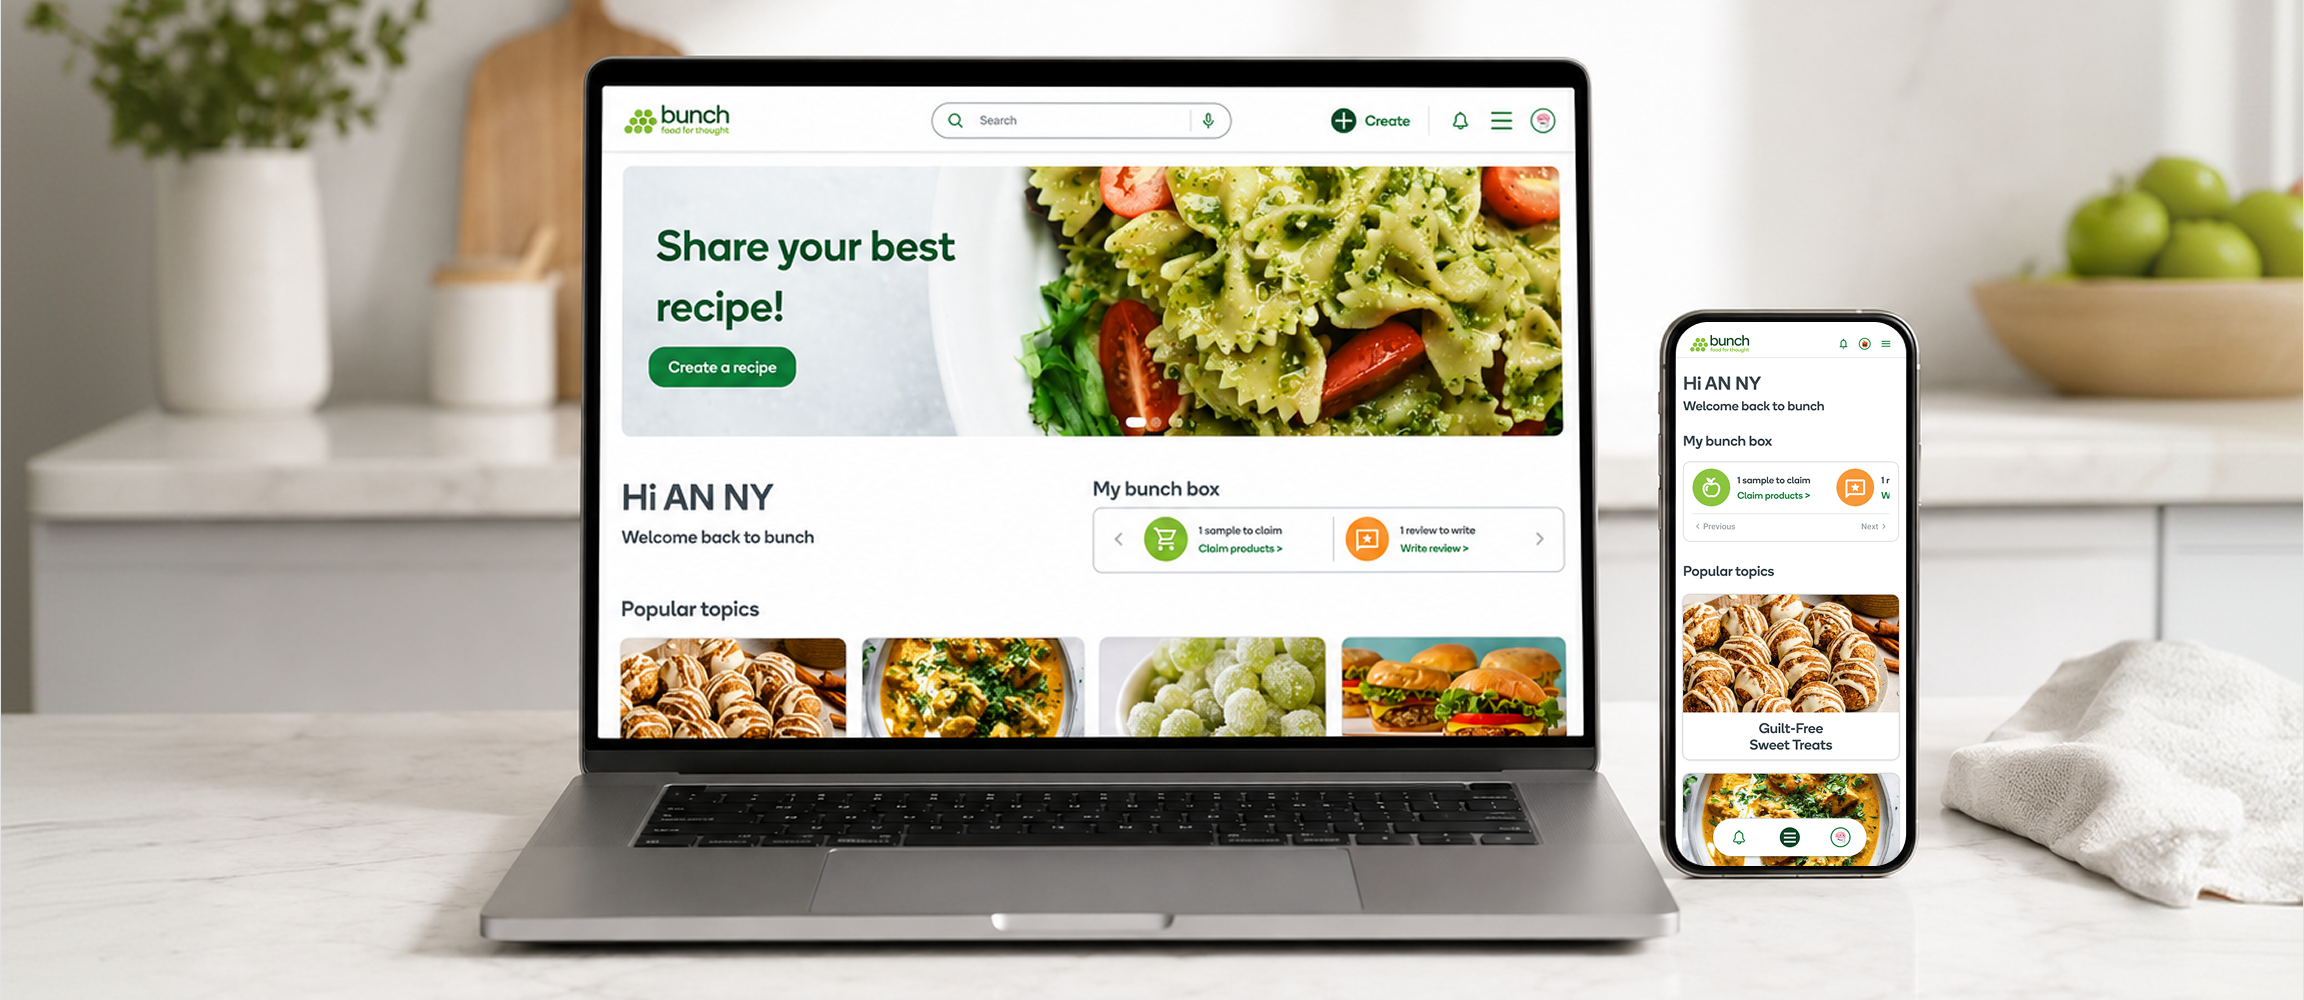
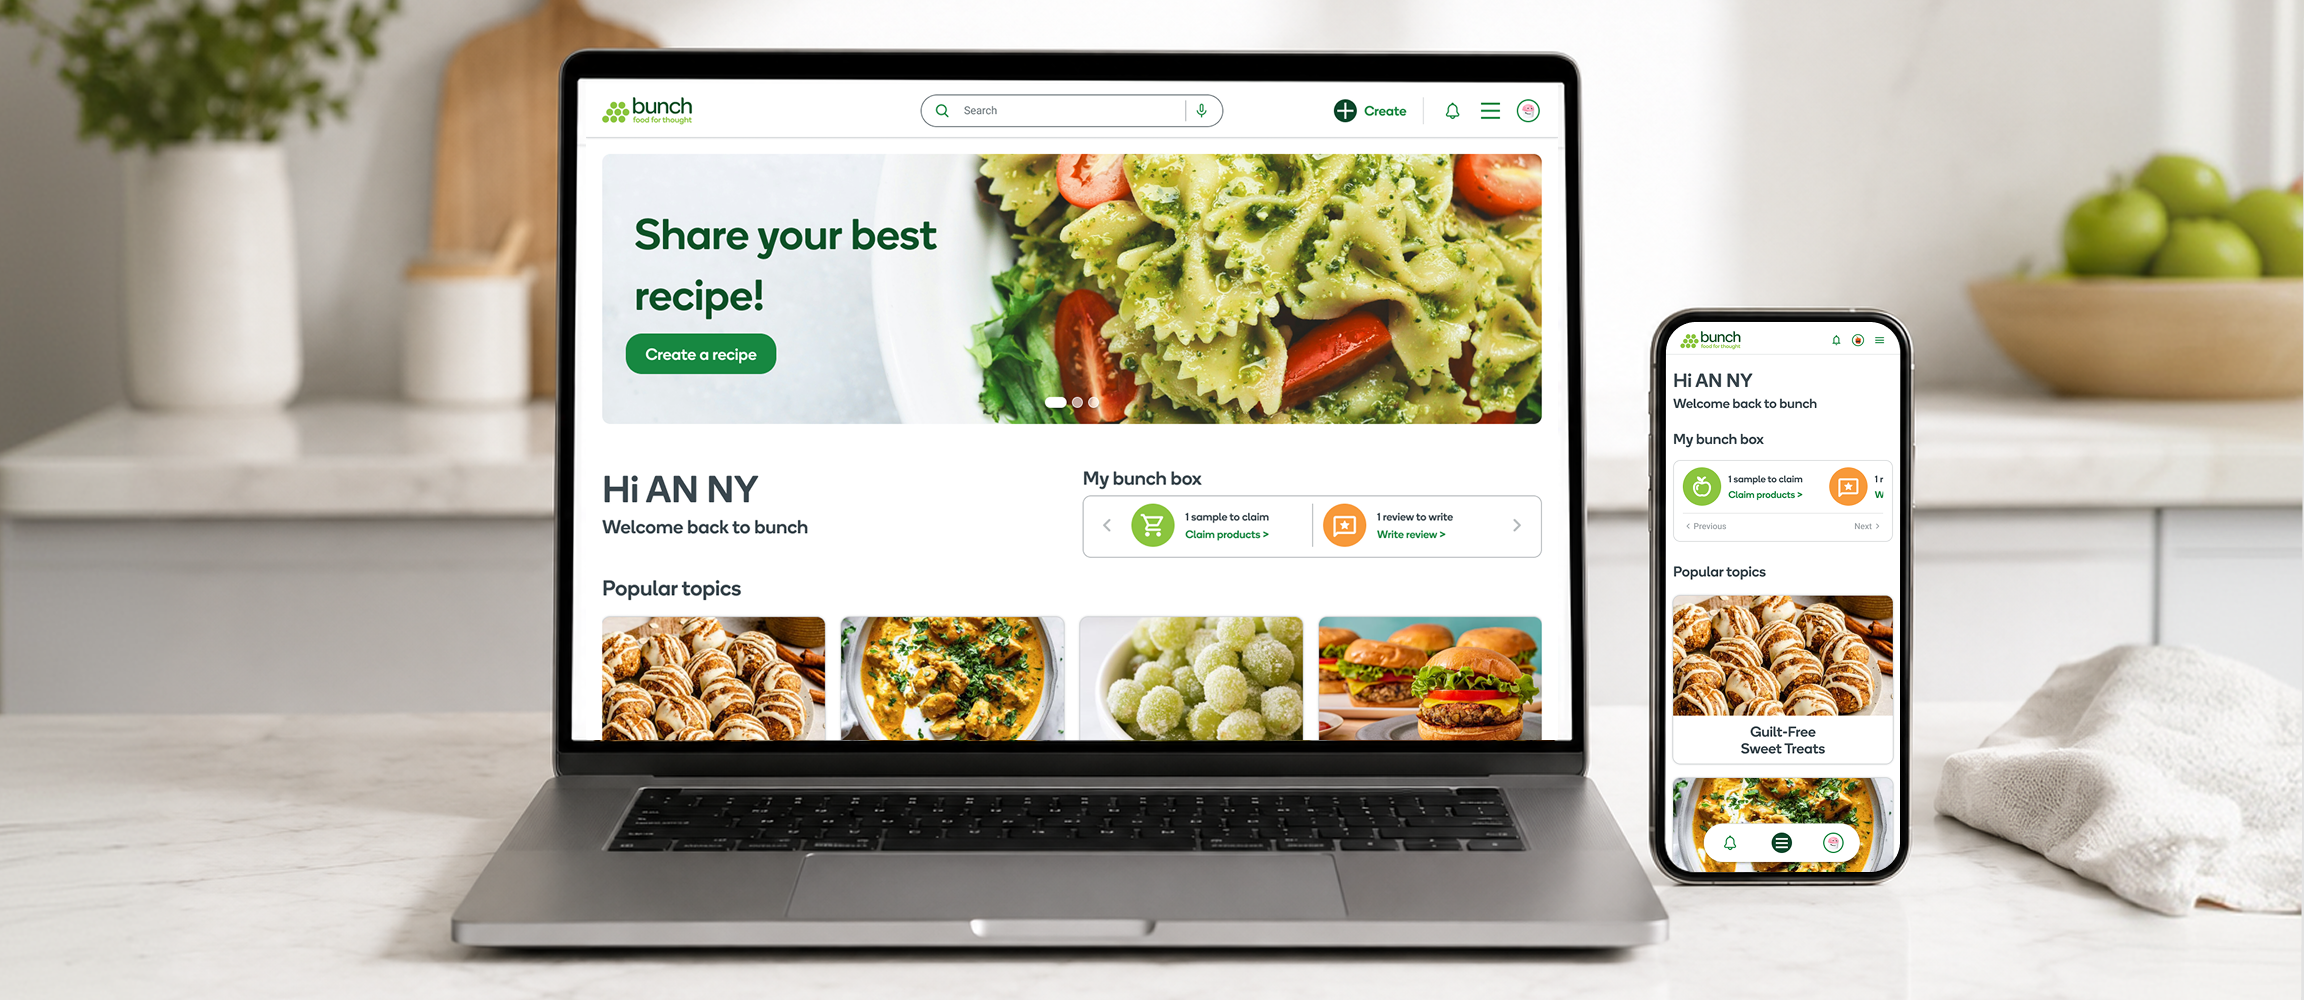
updates

diff --git a/app/work/bunch/page.tsx b/app/work/bunch/page.tsx
@@ -76,8 +76,8 @@ export default function BunchPage() {
     <>
       <CaseStudyHero
         image="/images/work/bunch/hero.png"
-        imageWidth={1728}
-        imageHeight={780}
+        imageWidth={2304}
+        imageHeight={1000}
         imageAlt="Laptop on a sunlit desk displaying the Bunch homepage, with a 'Share your best recipe' banner, member greeting and popular topics"
         title="Woolworths • Bunch"
         subtitle="Helping shape the future of a food community through continuous product evolution."
